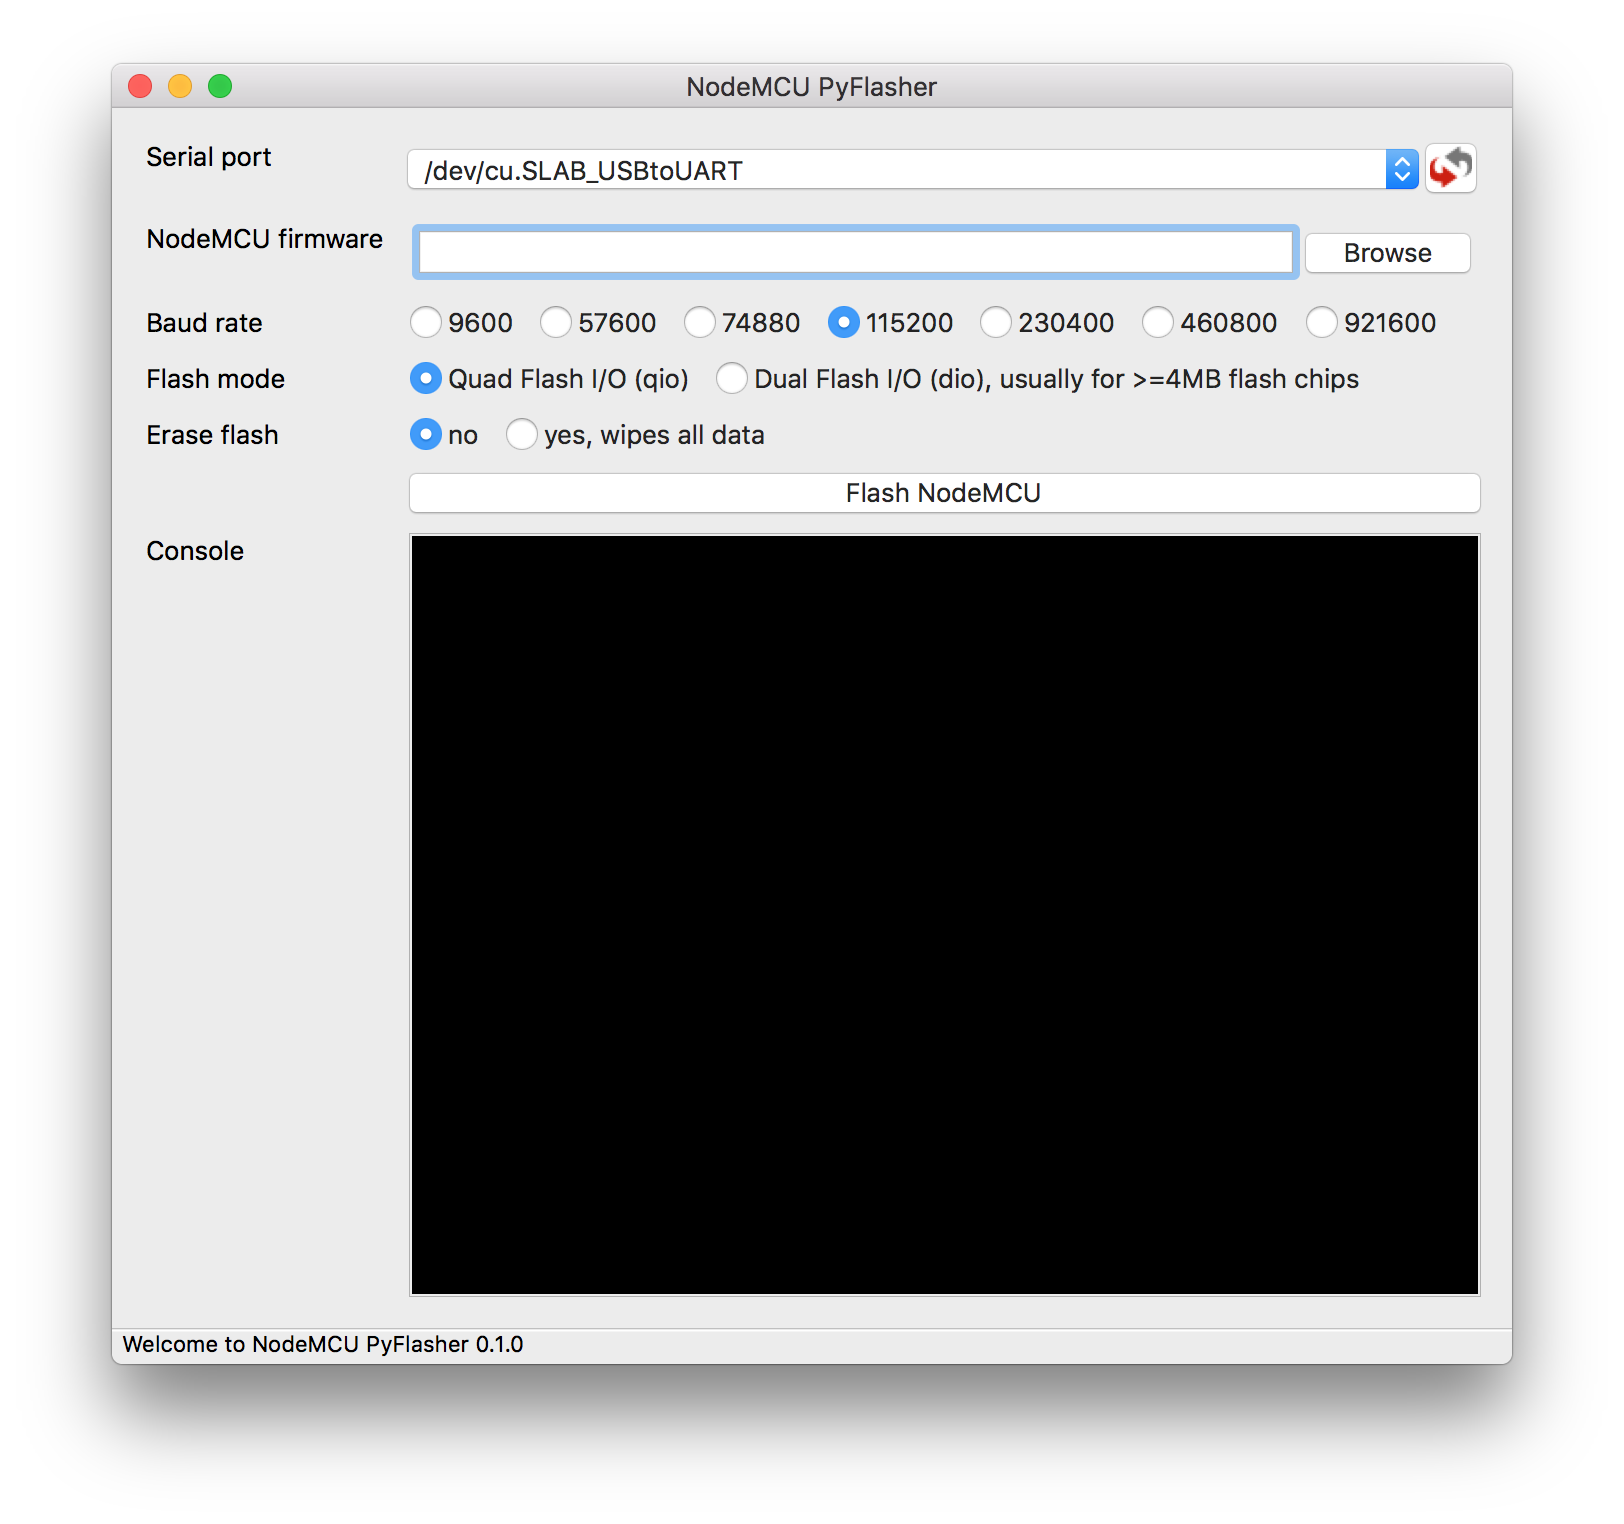
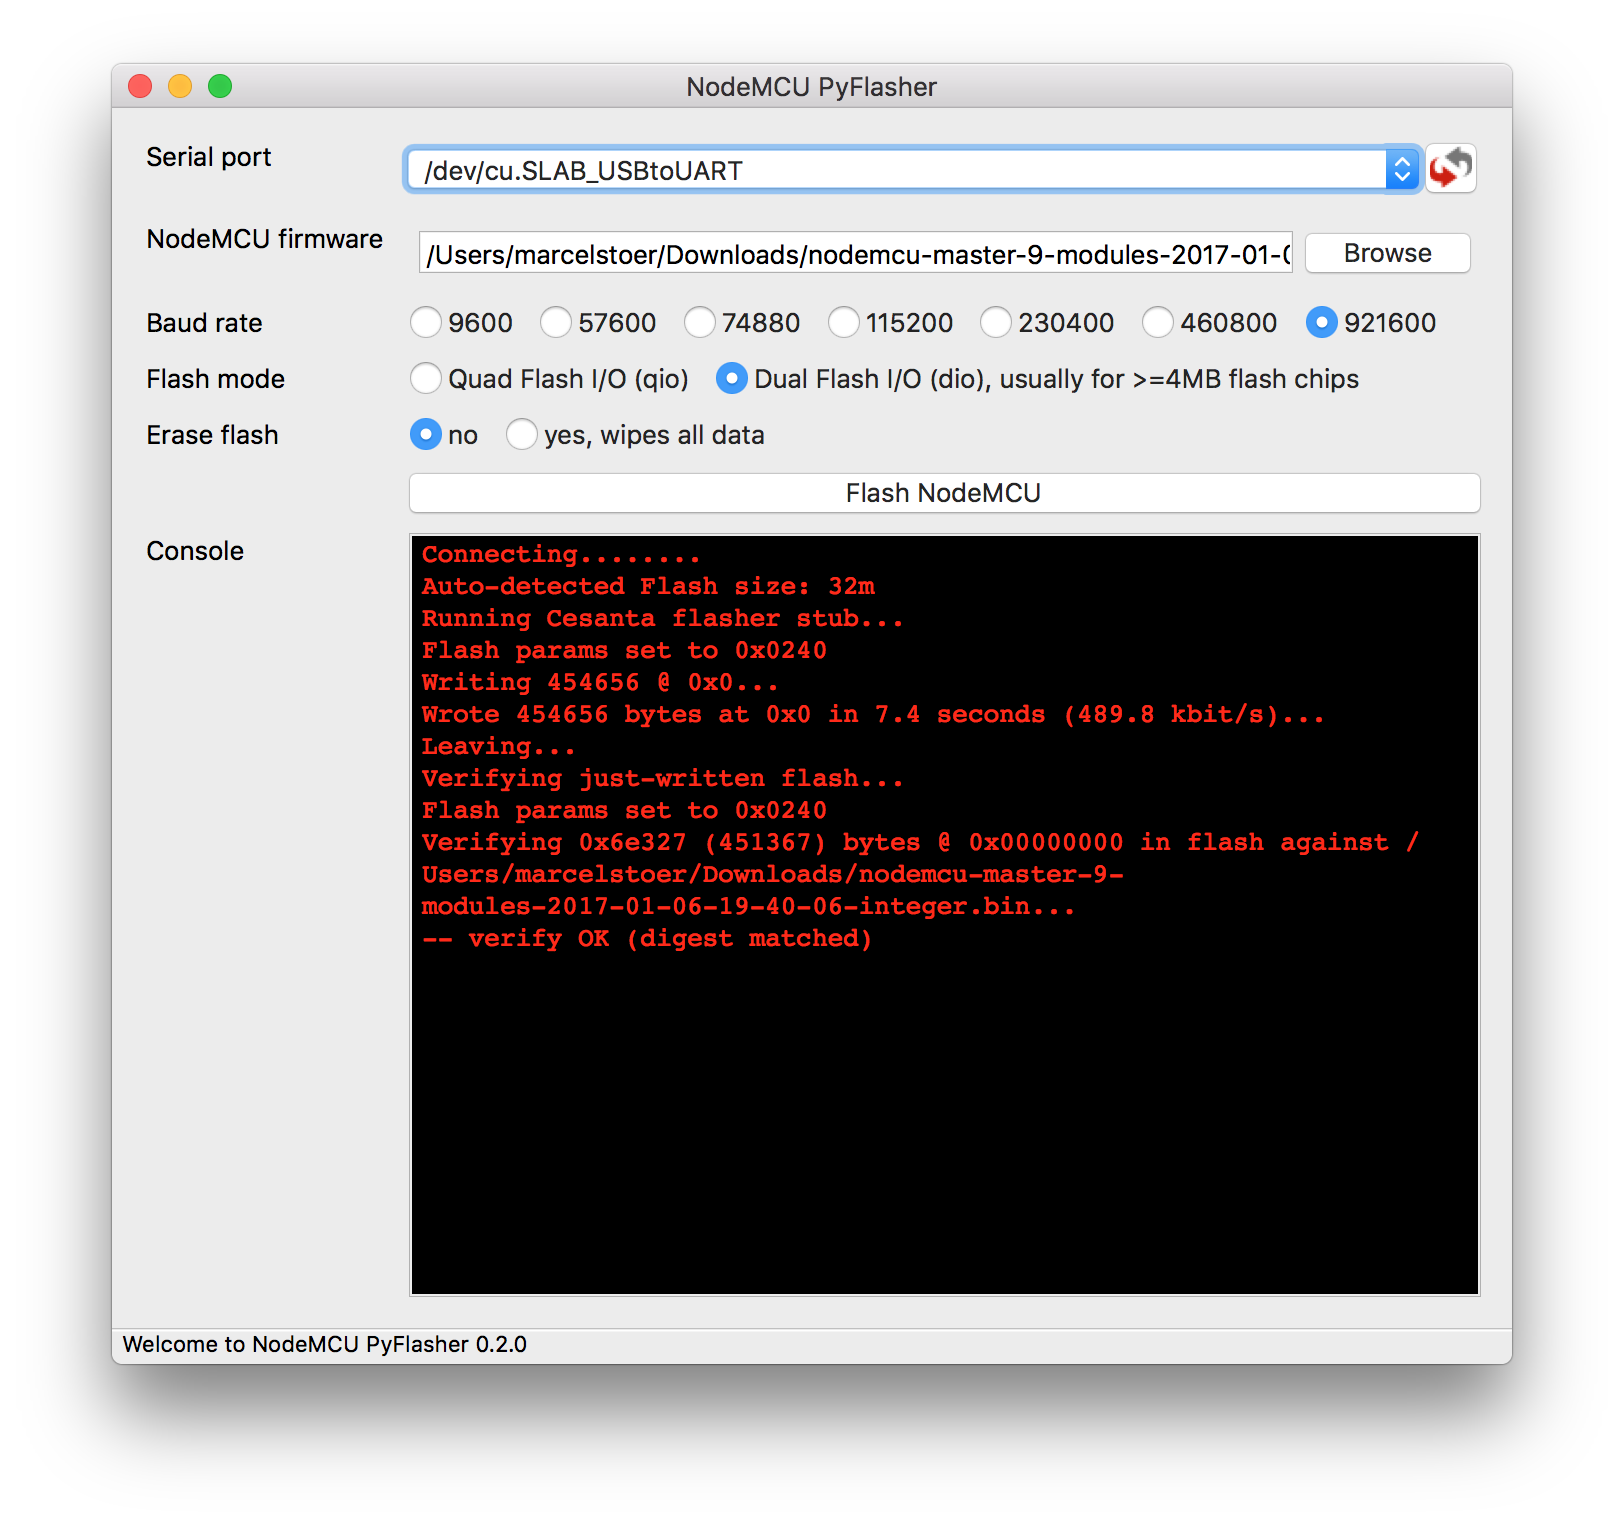
Upgrade esptool.py to v1.3

diff --git a/esptool.py b/esptool.py
@@ -33,7 +33,7 @@ import tempfile
 import time
 
 
-__version__ = "1.3-dev"
+__version__ = "1.3"
 
 PYTHON2 = sys.version_info[0] < 3  # True if on pre-Python 3
 
@@ -133,34 +133,41 @@ class ESPROM(object):
 
     """ Try connecting repeatedly until successful, or giving up """
     def connect(self):
-        print('Connecting...')
+        print('Connecting...', end='')
+        sys.stdout.flush()
+        last_error = None
 
-        for _ in range(4):
-            # issue reset-to-bootloader:
-            # RTS = either CH_PD or nRESET (both active low = chip in reset)
-            # DTR = GPIO0 (active low = boot to flasher)
-            self._port.setDTR(False)
-            self._port.setRTS(True)
-            time.sleep(0.05)
-            self._port.setDTR(True)
-            self._port.setRTS(False)
-            time.sleep(0.05)
-            self._port.setDTR(False)
-
-            # worst-case latency timer should be 255ms (probably <20ms)
-            self._port.timeout = 0.3
+        try:
             for _ in range(4):
-                try:
-                    self._port.flushInput()
-                    self._slip_reader = slip_reader(self._port)
-                    self._port.flushOutput()
-                    self.sync()
-                    self._port.timeout = 5
-                    return
-                except Exception as e:
-                    print("Couldn't connect. [%s; %s]. Retrying..." % (type(e), str(e)))  # not sure about this
-                    time.sleep(0.05)
-        raise FatalError('Failed to connect to ESP8266')
+                # issue reset-to-bootloader:
+                # RTS = either CH_PD or nRESET (both active low = chip in reset)
+                # DTR = GPIO0 (active low = boot to flasher)
+                self._port.setDTR(False)
+                self._port.setRTS(True)
+                time.sleep(0.05)
+                self._port.setDTR(True)
+                self._port.setRTS(False)
+                time.sleep(0.05)
+                self._port.setDTR(False)
+
+                # worst-case latency timer should be 255ms (probably <20ms)
+                self._port.timeout = 0.3
+                for _ in range(4):
+                    try:
+                        self._port.flushInput()
+                        self._slip_reader = slip_reader(self._port)
+                        self._port.flushOutput()
+                        self.sync()
+                        self._port.timeout = 5
+                        return
+                    except Exception as e:
+                        print('.', end='')
+                        sys.stdout.flush()
+                        time.sleep(0.05)
+                        last_error = e
+        finally:
+            print('')  # end 'Connecting...' line
+        raise FatalError('Failed to connect to ESP8266: %s' % last_error)
 
     """ Read memory address in target """
     def read_reg(self, addr):
@@ -515,7 +522,7 @@ class ELFFile(object):
             print("Error calling %s, do you have Xtensa toolchain in PATH?" % tool_nm)
             sys.exit(1)
         for l in proc.stdout:
-            fields = l.strip().split()
+            fields = l.strip().decode("utf-8", "strict").split()
             try:
                 if fields[0] == "U":
                     print("Warning: ELF binary has undefined symbol %s" % fields[1])
@@ -540,7 +547,7 @@ class ELFFile(object):
             print("Error calling %s, do you have Xtensa toolchain in PATH?" % tool_readelf)
             sys.exit(1)
         for l in proc.stdout:
-            fields = l.strip().split()
+            fields = l.strip().decode("utf-8", "strict").split()
             if fields[0] == "Entry":
                 return int(fields[3], 0)
 
@@ -872,13 +879,25 @@ def detect_flash_size(esp, args):
             print('Auto-detected Flash size:', args.flash_size)
 
 
-def write_flash(esp, args):
+def _get_flash_params(esp, args):
+    """ Return binary flash parameters (bitstring length 2) for args """
     detect_flash_size(esp, args)
     flash_mode = {'qio':0, 'qout':1, 'dio':2, 'dout': 3}[args.flash_mode]
     flash_size_freq = {'4m':0x00, '2m':0x10, '8m':0x20, '16m':0x30, '32m':0x40, '16m-c1': 0x50, '32m-c1':0x60, '32m-c2':0x70}[args.flash_size]
     flash_size_freq += {'40m':0, '26m':1, '20m':2, '80m': 0xf}[args.flash_freq]
-    flash_params = struct.pack(b'BB', flash_mode, flash_size_freq)
+    return struct.pack(b'BB', flash_mode, flash_size_freq)
 
+
+def _update_image_flash_params(address, flash_params, image):
+    """ Modify the flash mode & size bytes if this looks like an executable image """
+    if address == 0 and (image[0] == b'\xe9' or image[0] == 0xE9):  # python 2/3 compat
+        print('Flash params set to 0x%04x' % struct.unpack(">H", flash_params))
+        image = image[0:2] + flash_params + image[4:]
+    return image
+
+
+def write_flash(esp, args):
+    flash_params = _get_flash_params(esp, args)
     flasher = CesantaFlasher(esp, args.baud)
 
     for address, argfile in args.addr_filename:
@@ -886,10 +905,7 @@ def write_flash(esp, args):
         argfile.seek(0)  # rewind in case we need it again
         if address + len(image) > int(args.flash_size.split('m')[0]) * (1 << 17):
             print('WARNING: Unlikely to work as data goes beyond end of flash. Hint: Use --flash_size')
-        # Fix sflash config data.
-        if address == 0 and (image[0] == b'\xe9' or image[0] == 0xE9):  # python 2/3 compat
-            print('Flash params set to 0x%02x%02x' % (flash_mode, flash_size_freq))
-            image = image[0:2] + flash_params + image[4:]
+        image = _update_image_flash_params(address, flash_params, image)
         # Pad to sector size, which is the minimum unit of writing (erasing really).
         if len(image) % esp.ESP_FLASH_SECTOR != 0:
             image += b'\xff' * (esp.ESP_FLASH_SECTOR - (len(image) % esp.ESP_FLASH_SECTOR))
@@ -901,7 +917,7 @@ def write_flash(esp, args):
     print('Leaving...')
     if args.verify:
         print('Verifying just-written flash...')
-        _verify_flash(flasher, args, flash_params)
+        _verify_flash(esp, args, flasher)
     flasher.boot_fw()
 
 
@@ -1014,13 +1030,17 @@ def read_flash(esp, args):
     open(args.filename, 'wb').write(data)
 
 
-def _verify_flash(flasher, args, flash_params=None):
+def _verify_flash(esp, args, flasher=None):
     differences = False
+    flash_params = _get_flash_params(esp, args)
+    if flasher is None:  # get flash params before launching flasher
+        flasher = CesantaFlasher(esp)
+
     for address, argfile in args.addr_filename:
         image = argfile.read()
         argfile.seek(0)  # rewind in case we need it again
-        if address == 0 and (image[0] == b'\xe9' or image[0] == 0xE9) and flash_params is not None:
-            image = image[0:2] + flash_params + image[4:]
+
+        image = _update_image_flash_params(address, flash_params, image)
 
         image_size = len(image)
         print('Verifying 0x%x (%d) bytes @ 0x%08x in flash against %s...' % (image_size, image_size, address, argfile.name))
@@ -1054,8 +1074,7 @@ def _verify_flash(flasher, args, flash_params=None):
 
 
 def verify_flash(esp, args, flash_params=None):
-    flasher = CesantaFlasher(esp)
-    _verify_flash(flasher, args, flash_params)
+    _verify_flash(esp, args)
 
 
 def version(args):
@@ -1132,7 +1151,7 @@ def main():
                                     action=AddrFilenamePairAction)
     add_spi_flash_subparsers(parser_write_flash, auto_detect=True)
     parser_write_flash.add_argument('--no-progress', '-p', help='Suppress progress output', action="store_true")
-    parser_write_flash.add_argument('--verify', help='Verify just-written data (only necessary if very cautious, data is already CRCed', action='store_true')
+    parser_write_flash.add_argument('--verify', help='Verify just-written data on flash (recommended if concerned about flash integrity)', action='store_true')
 
     subparsers.add_parser(
         'run',
@@ -1186,6 +1205,7 @@ def main():
                                      action=AddrFilenamePairAction)
     parser_verify_flash.add_argument('--diff', '-d', help='Show differences',
                                      choices=['no', 'yes'], default='no')
+    add_spi_flash_subparsers(parser_verify_flash, auto_detect=True)
 
     subparsers.add_parser(
         'erase_flash',

diff --git a/Main.py b/Main.py
@@ -11,7 +11,7 @@ from serial.tools import list_ports
 from esptool import ESPROM
 from argparse import Namespace
 
-__version__ = "0.1.0"
+__version__ = "0.2.0"
 
 # ---------------------------------------------------------------------------
 

diff --git a/README.md b/README.md
@@ -11,7 +11,6 @@ Check the [releases section](https://github.com/marcelstoer/nodemcu-pyflasher/re
 Scan the [list of open issues](https://github.com/marcelstoer/nodemcu-pyflasher/issues) for bugs and pending features.
 
 - Due to [pyinstaller/pyinstaller#2355](https://github.com/pyinstaller/pyinstaller/issues/2355) I can't provide an app bundle for macOS yet. The PyInstaller `.spec` file and the build script are ready, though.
-- Due to [esptool/issues/#155](https://github.com/espressif/esptool/issues/155) you'll see "debug" output from esptool.py when it attempts to reconnect to your device.
 
 **Note** 
 
